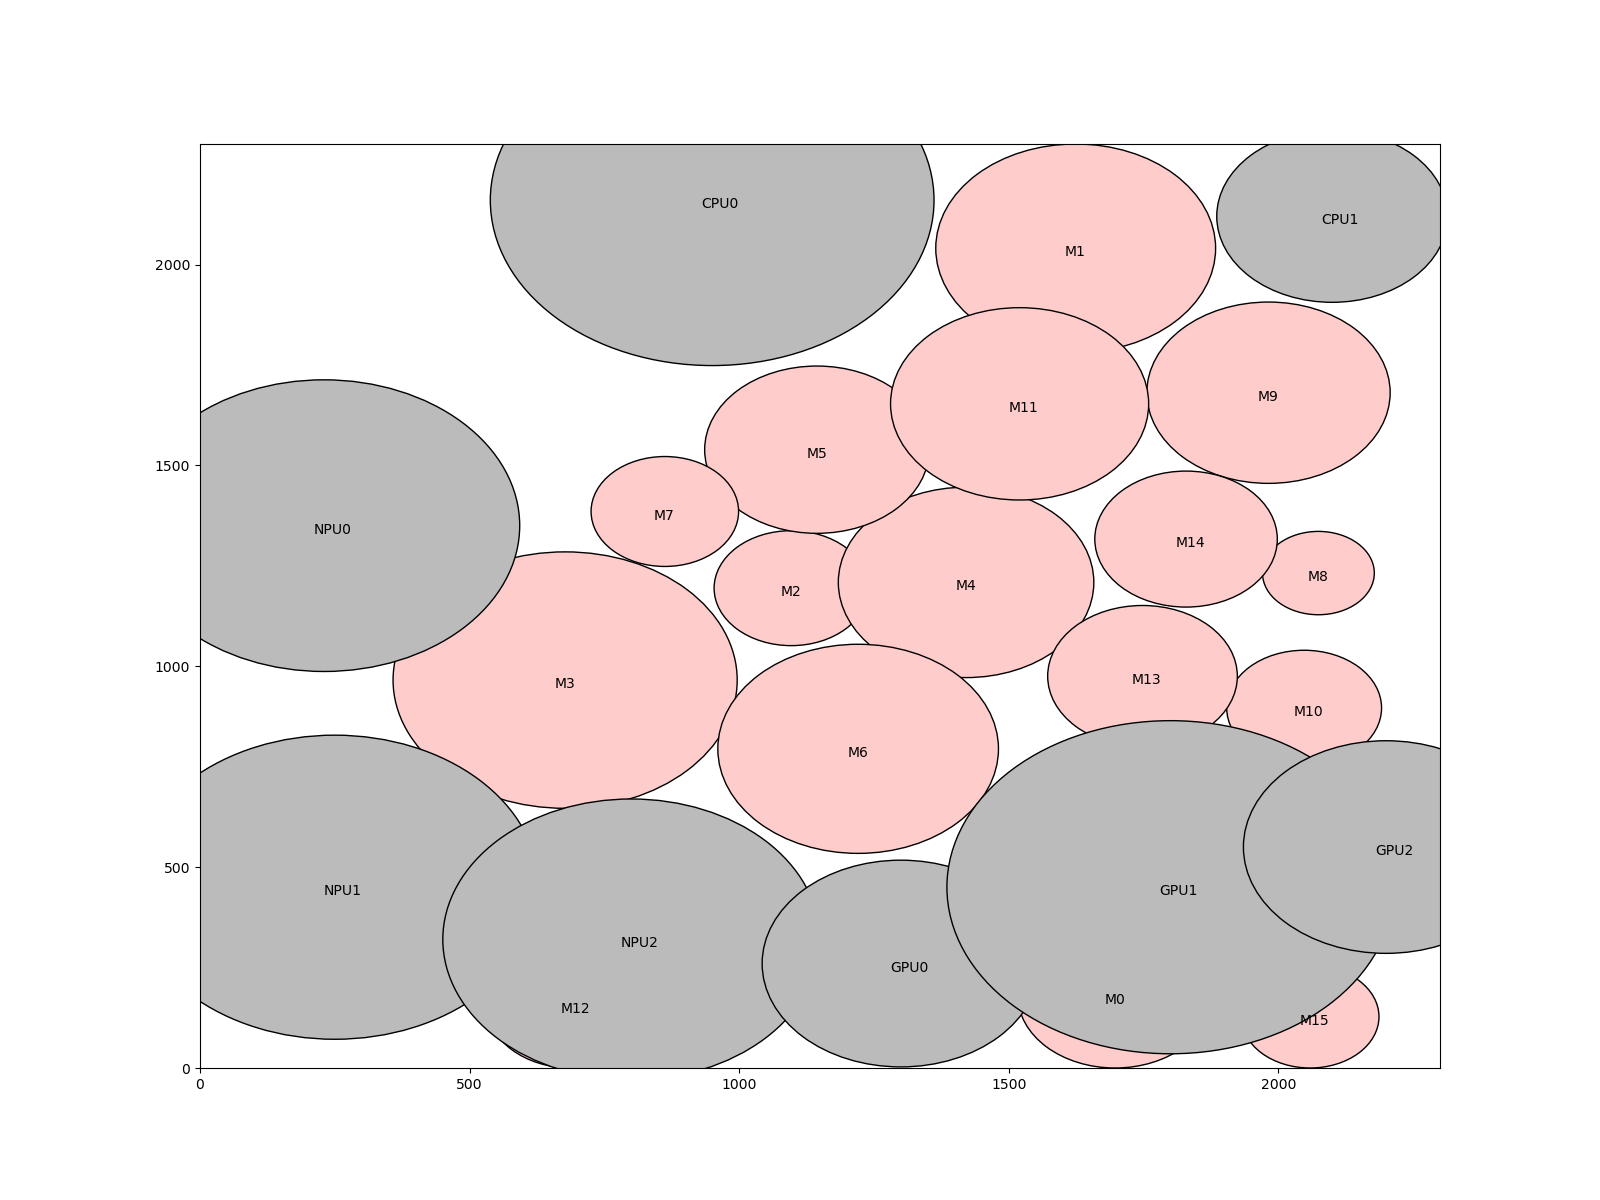
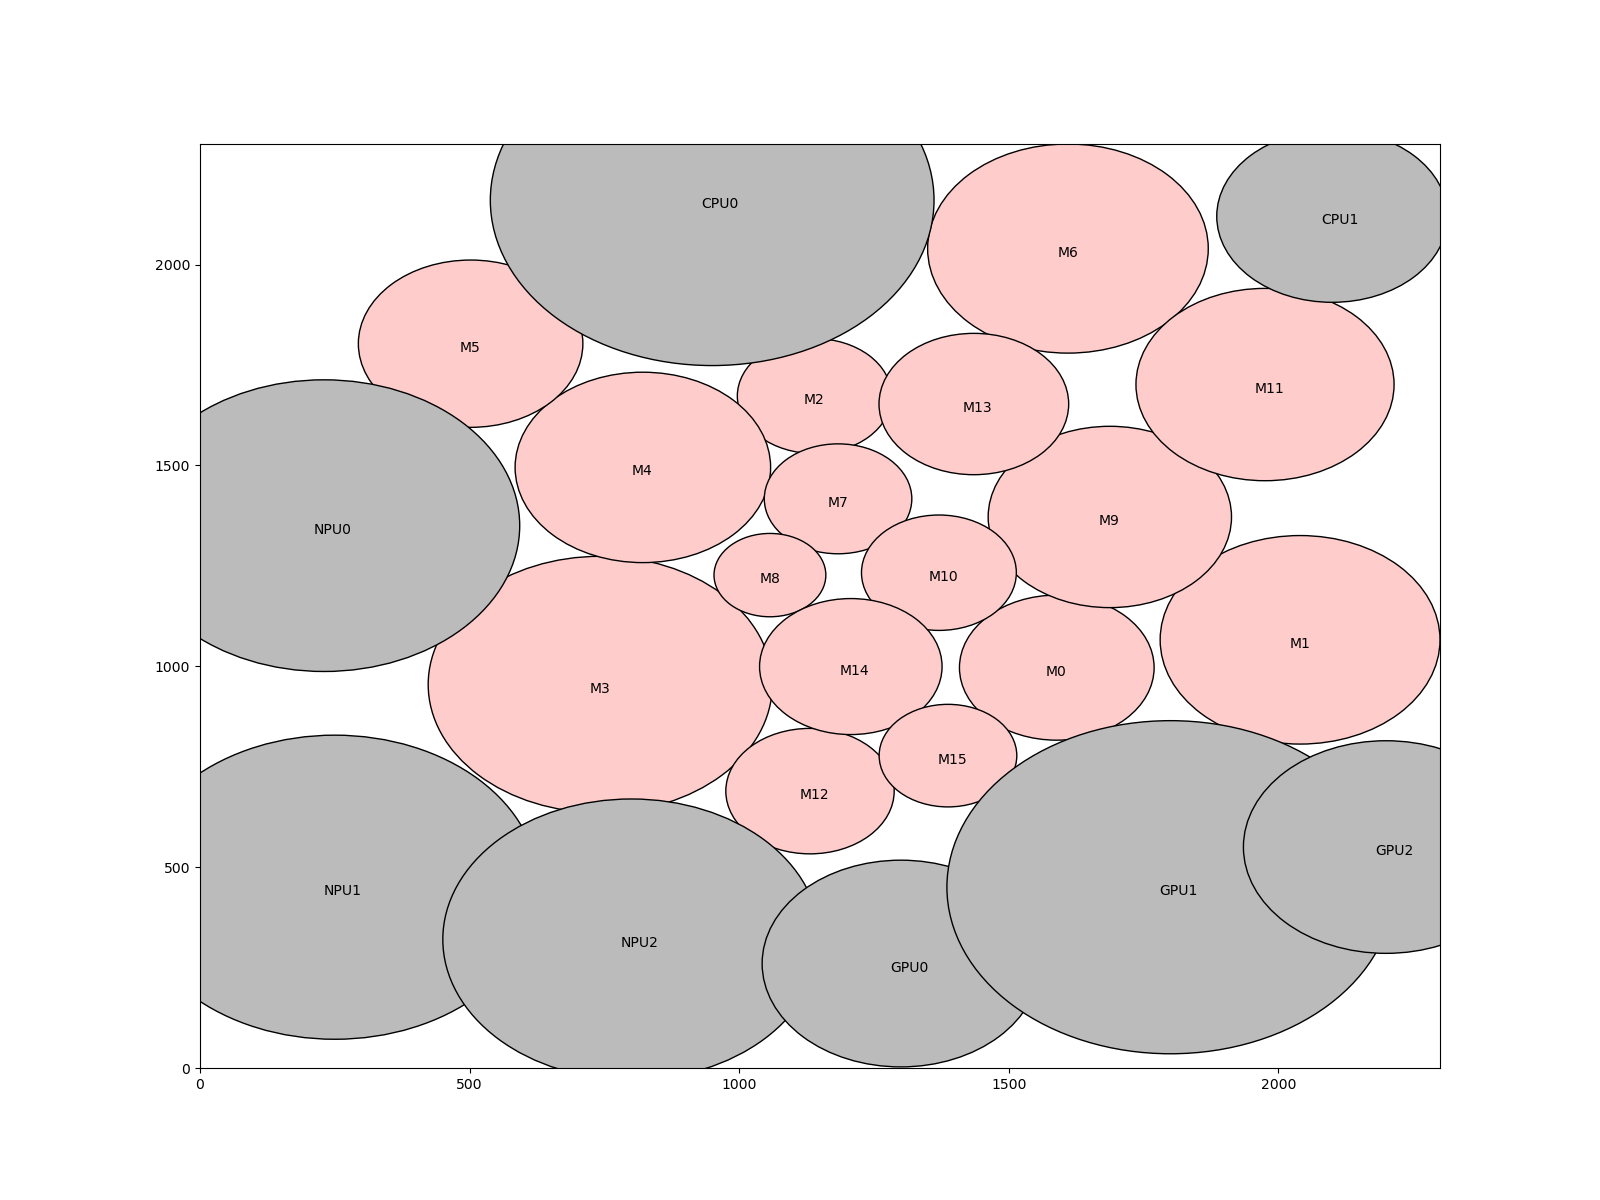
improve overall results

diff --git a/main.cpp b/main.cpp
@@ -2,12 +2,17 @@
 #include <cmath>
 #include <fstream>
 #include <string>
+#include <cstdlib>
 #include "ppmodule.h"
 #include "ppsolver.h"
 using namespace std;
 
 
 int main(int argc, char* argv[]) {
+    if ( argc < 3 ) {
+        cout << "Not enough argument\n";
+        return -1;
+    }
     int dieWidth, dieHeight;
     int softModuleNum, fixedModuleNum;
     int connectionNum;
@@ -17,6 +22,10 @@ int main(int argc, char* argv[]) {
     //               read input file
     //************************************************
     ifstream istream(argv[1]);
+    if ( istream.fail() ) {
+        cout << argv[1] << " doesn't exist.\n";
+        return -1;
+    }
     string s, m0, m1;
     int area, x, y, w, h, value;
 
@@ -29,7 +38,7 @@ int main(int argc, char* argv[]) {
         istream >> s >> area;
         PPModule* mod = new PPModule(s, dieWidth / 2., dieHeight / 2., (float) area, false);
         solver.addModule(mod);
-        //cout << "Reading Soft Module " << s << "..." << endl;
+        cout << "Reading Soft Module " << s << "..." << endl;
     }
 
     istream >> s >> fixedModuleNum;
@@ -39,7 +48,7 @@ int main(int argc, char* argv[]) {
         istream >> s >> x >> y >> w >> h;
         PPModule* mod = new PPModule(s, x + w / 2., y + h / 2., (float) w * h, true);
         solver.addModule(mod);
-        //cout << "Reading Fixed Module " << s << "..." << endl;
+        cout << "Reading Fixed Module " << s << "..." << endl;
     }
 
     istream >> s >> connectionNum;
@@ -47,7 +56,7 @@ int main(int argc, char* argv[]) {
     for ( int i = 0; i < connectionNum; i++ ) {
         istream >> m0 >> m1 >> value;
         solver.addConnection(m0, m1, (float) value);
-        //cout << "Reading Connection " << m0 << "<->" << m1 << endl;
+        cout << "Reading Connection " << m0 << "<->" << m1 << endl;
     }
 
     istream.close();
@@ -57,17 +66,18 @@ int main(int argc, char* argv[]) {
     //               apply Hook's law
     //************************************************
 
-    solver.setTimeSpan(1e-5);
+    int iteration = ( argc >= 4 ) ? std::atoi(argv[3]) : 10000;
 
-
-    for ( int i = 0; i < 10000; i++ ) {
+    for ( int i = 0; i < iteration; i++ ) {
         solver.calcModuleForce();
         solver.moveModule();
-        //solver.updateTimeSpan();
     }
 
 
-    solver.currentPosition2txt("output.txt");
+    //************************************************
+    //               output result
+    //************************************************
+    solver.currentPosition2txt(argv[2]);
 
     cout << "Dead Space: " << solver.calcDeadspace() << endl;
 

diff --git a/ppsolver.cpp b/ppsolver.cpp
@@ -18,6 +18,8 @@ PPSolver::~PPSolver() {
 void PPSolver::setOutline(int width, int height) {
     DieWidth = (float) width;
     DieHeight = (float) height;
+    xMaxMovement = DieWidth / 5000.;
+    yMaxMovement = DieHeight / 5000.;
 }
 
 void PPSolver::setSoftModuleNum(int num) {
@@ -125,8 +127,10 @@ void PPSolver::calcModuleForce() {
                 continue;
 
             distance -= curModule->radius + pushModule->radius;
+            distance = -distance;
             x_distance = distance * std::cos(angle);
             y_distance = distance * std::sin(angle);
+            //std::cout << x_distance << " " << y_distance << std::endl;
             float force = 1e5 * distance;
             x_force -= force * ( x_distance / distance );
             y_force -= force * ( y_distance / distance );
@@ -141,15 +145,25 @@ void PPSolver::calcModuleForce() {
     //}
 }
 
-void PPSolver::setTimeSpan(float in_time) {
-    timeSpan = in_time;
-}
-
-void PPSolver::setModuleMass(float in_mass) {
-    moduleMass = in_mass;
-}
-
 void PPSolver::moveModule() {
+    // find the maximum force in x, y direction
+    float xMax = 0, yMax = 0;
+    for ( int i = 1; i < moduleNum; i++ ) {
+        if ( std::abs(xForce[i]) > xMax )
+            xMax = std::abs(xForce[i]);
+        if ( std::abs(yForce[i]) > yMax )
+            yMax = std::abs(yForce[i]);
+    }
+
+    // scale forces if they are out of maximum tolerance value
+    float xRatio = 1, yRatio = 1;
+
+    if ( xMax > xMaxMovement )
+        xRatio = xMaxMovement / xMax;
+    if ( yMax > yMaxMovement )
+        yRatio = yMaxMovement / yMax;
+
+    // move soft modules
     PPModule* curModule;
     for ( int i = 0; i < moduleNum; i++ ) {
         if ( modules[i]->fixed == true )
@@ -157,8 +171,8 @@ void PPSolver::moveModule() {
 
         curModule = modules[i];
 
-        curModule->x += xForce[i] * timeSpan;
-        curModule->y += yForce[i] * timeSpan;
+        curModule->x += xForce[i] * xRatio;
+        curModule->y += yForce[i] * yRatio;
 
         if ( curModule->x < curModule->radius )
             curModule->x = curModule->radius;
@@ -169,9 +183,4 @@ void PPSolver::moveModule() {
         if ( curModule->y > DieHeight - curModule->radius )
             curModule->y = DieHeight - curModule->radius;
     }
-}
-
-void PPSolver::updateTimeSpan() {
-    timeSpan *= 1.0003;
-    std::cout << "current time span: " << timeSpan << std::endl;
 }

diff --git a/ppsolver.h b/ppsolver.h
@@ -11,8 +11,7 @@ private:
     int softModuleNum, fixedModuleNum, moduleNum;
     std::vector<PPModule*> modules;
     std::vector<float> xForce, yForce;
-    float timeSpan;
-    float moduleMass;
+    float xMaxMovement, yMaxMovement;
 public:
     PPSolver();
     ~PPSolver();
@@ -26,6 +25,7 @@ public:
     void calcModuleForce();
     void setTimeSpan(float in_time);
     void setModuleMass(float in_mass);
+    void setPushForce(float in_force);
     void moveModule();
     void updateTimeSpan();
 };

diff --git a/README.md b/README.md
@@ -4,3 +4,5 @@
 
 * pprun: ./pprun input.txt output.txt
 * draw_circle_layout.py: python draw_circle_layout.py output.txt output.png
+* runtest.sh: ./runtest.sh input.txt iteration_num
+* runcase.sh: ./runcase.sh case (case1 ~ case3)
